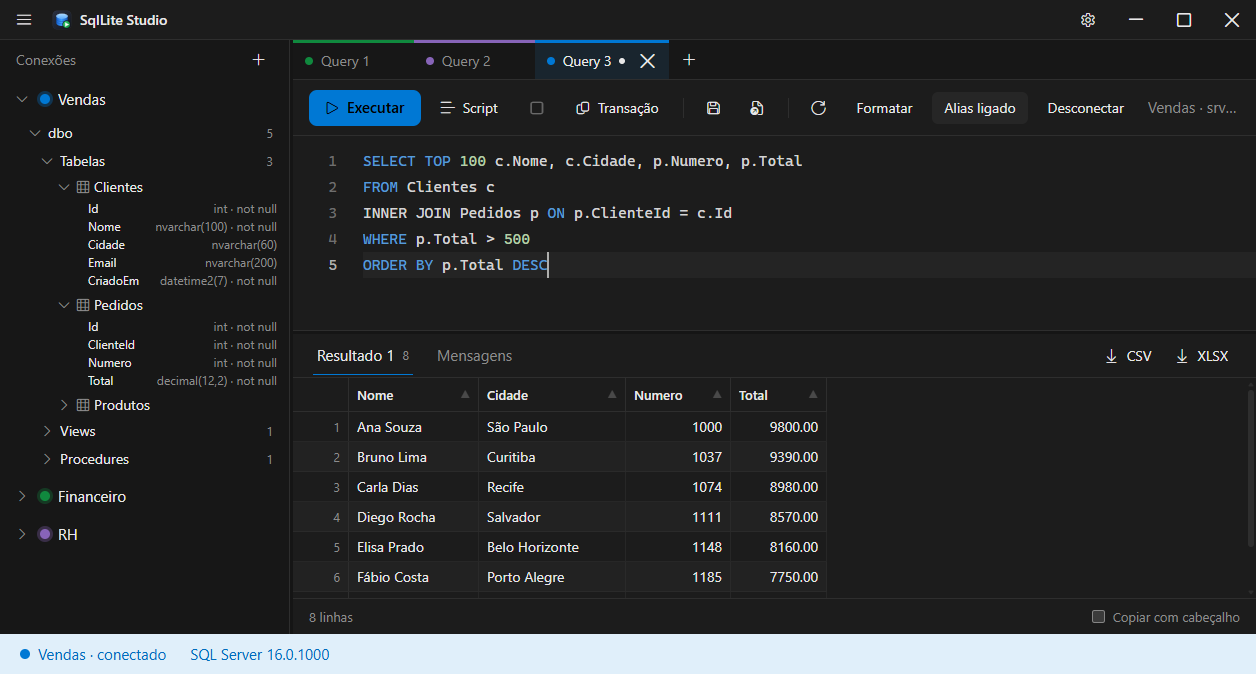
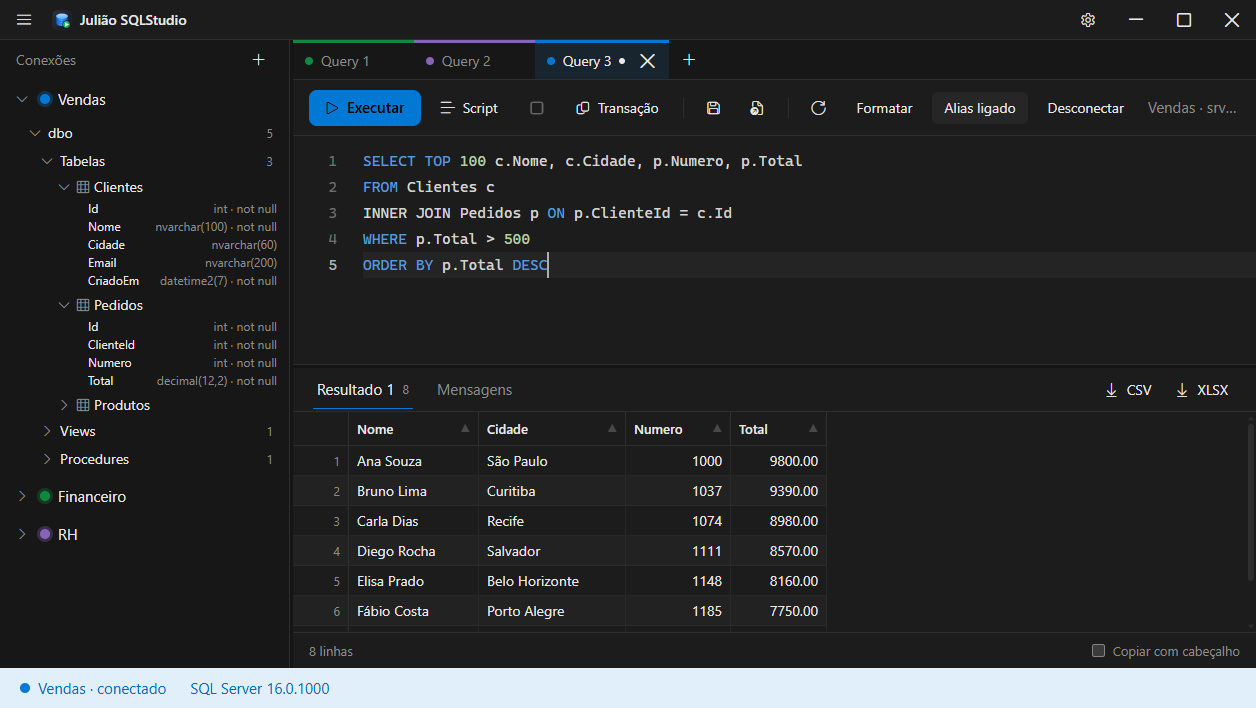
Troca o nome exibido na barra de título e atualiza a imagem do README

diff --git a/src/SqlDesk.Web/src/components/TitleBar.tsx b/src/SqlDesk.Web/src/components/TitleBar.tsx
@@ -24,7 +24,7 @@ export function TitleBar({ onToggleSidebar, onOpenSettings }: { onToggleSidebar:
         &#xE700;
       </button>
       <img src="/favicon.svg" alt="" aria-hidden className="ml-3 h-5 w-5 select-none" draggable={false} />
-      <span className="ml-2 text-sm font-semibold">SqlLite Studio</span>
+      <span className="ml-2 text-sm font-semibold">Julião SQLStudio</span>
       <div className="ml-auto flex h-full" onDoubleClick={(e) => e.stopPropagation()}>
         <button className={btn} title="Configurações (Ctrl+,)" aria-label="Configurações" onClick={onOpenSettings}>&#xE713;</button>
         <button className={btn} aria-label="Minimizar" onClick={() => void invoke('window.minimize', {})}>&#xE921;</button>
